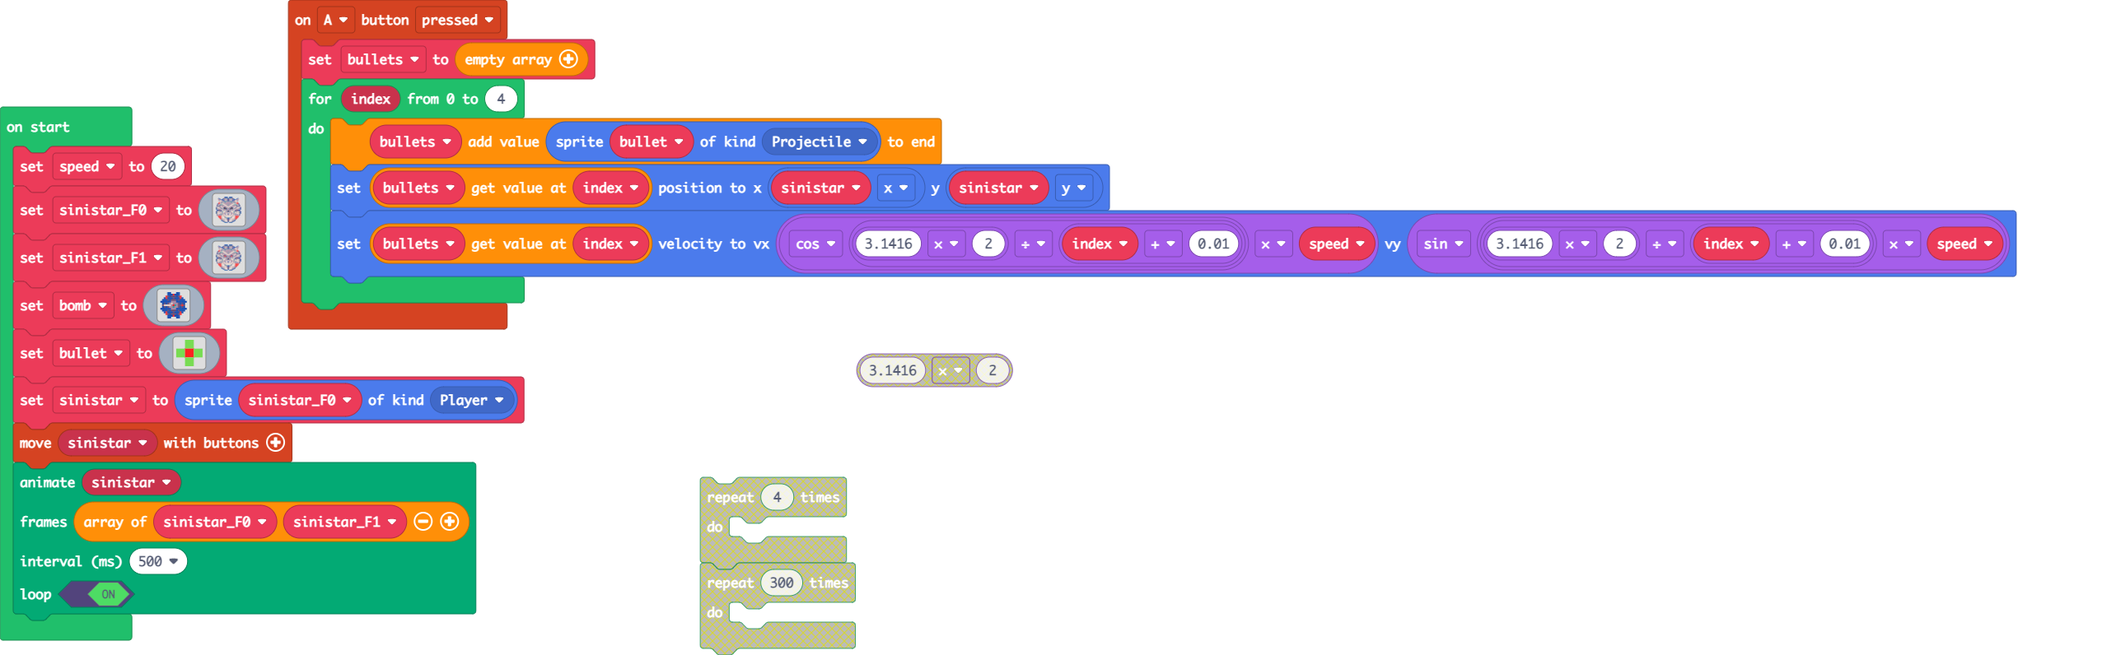
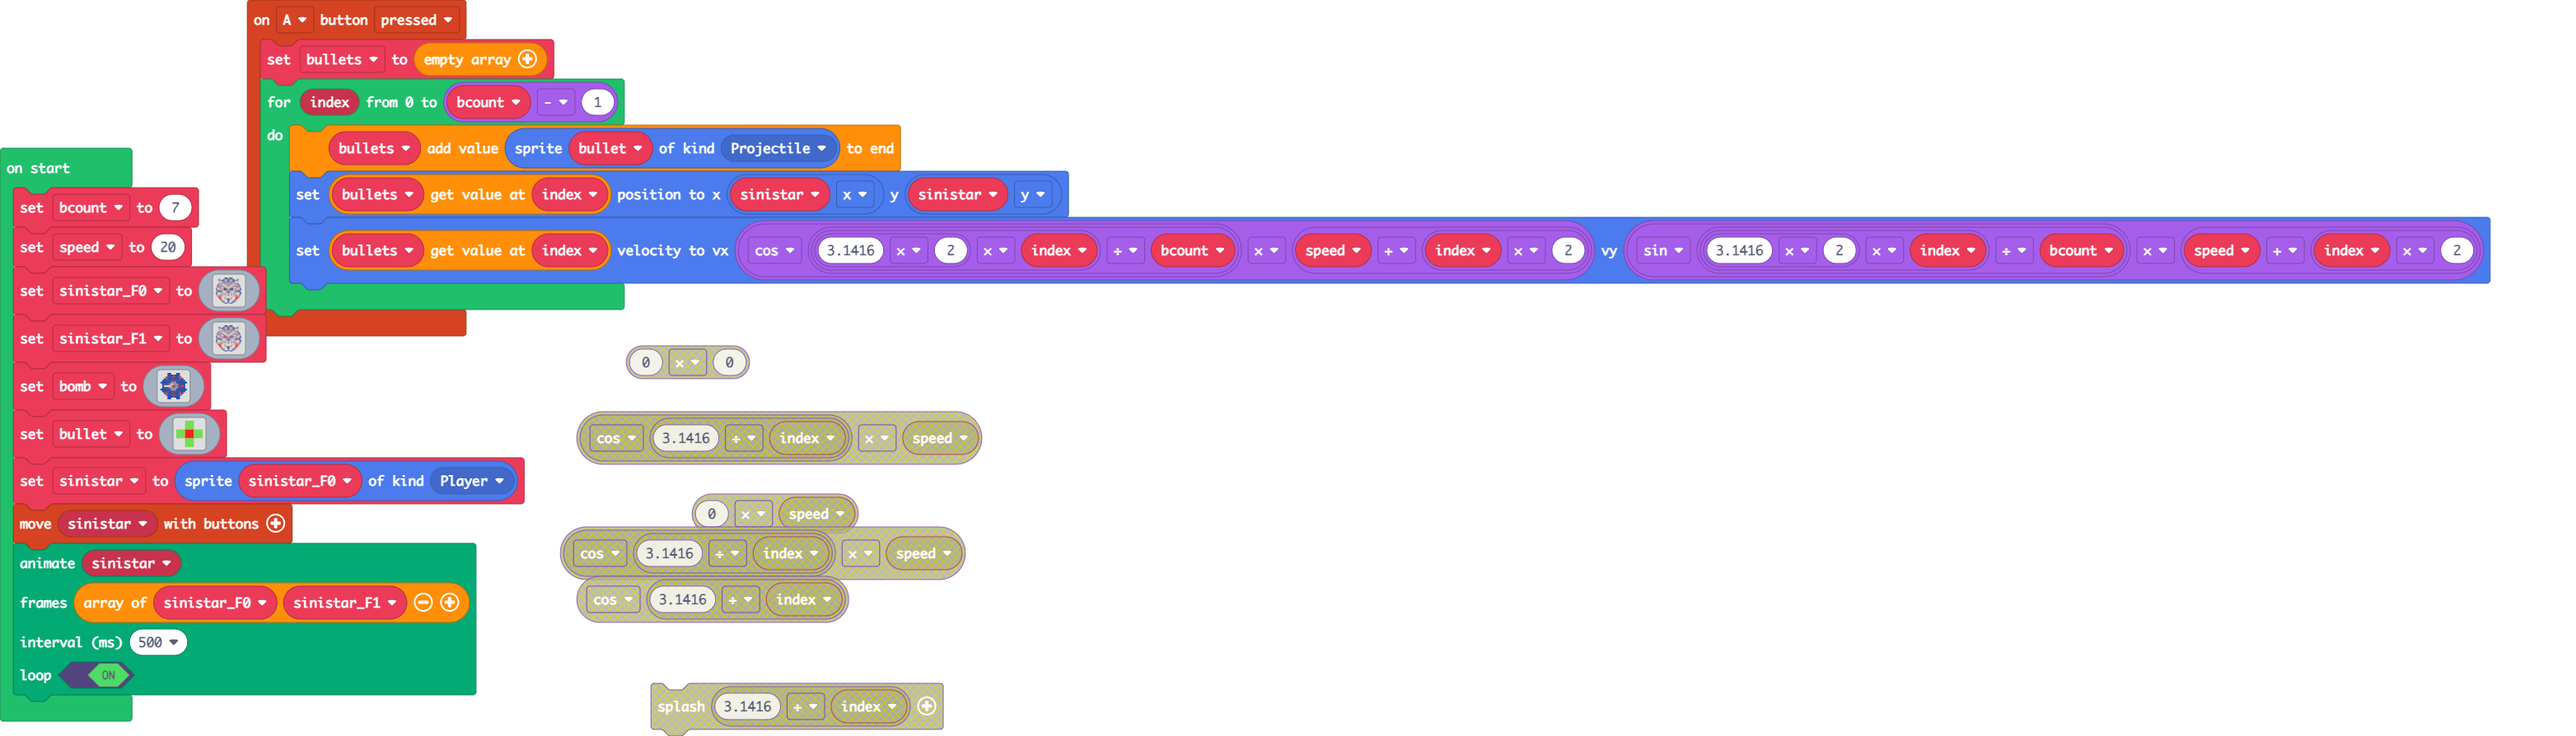
Update main.blocks, main.ts

diff --git a/main.ts b/main.ts
@@ -1,16 +1,20 @@
 controller.A.onEvent(ControllerButtonEvent.Pressed, function () {
     bullets = []
-    for (let index = 0; index <= 4; index++) {
+    for (let index = 0; index <= bcount - 1; index++) {
         bullets.push(sprites.create(bullet, SpriteKind.Projectile))
         bullets[index].setPosition(sinistar.x, sinistar.y)
-        bullets[index].setVelocity(Math.cos((3.1416)/index)  * speed, Math.sin((3.1416) /index) * speed)
+        bullets[index].setVelocity(Math.cos(3.1416 * 2 * index / bcount) * speed, 
+        Math.sin(3.1416 * 2 * index / bcount) * speed )
+        pause(10)
     }
 })
 let bullets: Sprite[] = []
 let sinistar: Sprite = null
 let bullet: Image = null
 let speed = 0
-speed = 20
+let bcount = 0
+bcount = 7
+speed = 40
 let sinistar_F0 = img`
     .................888888...888888.................
     .................888888...888888.................
